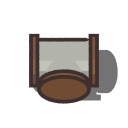
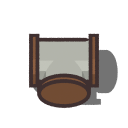
Tuyaux et chaudière : raccords nord-sud sans écart, fenêtres verticales
- Le sol est raccourci à l'écran par cos(30°) : une case nord-sud ne faisait que 55 px au lieu
  des 64 qui séparent deux tuyaux, d'où trois bandes de brides entre deux tuyaux verticaux
  et la croix décousue. Les positions au sol nord-sud des tuyaux (formes, souterrains,
  couvercles) sont allongées de pipe.KY = 1/cos(30°) : une seule paire de brides par raccord.
- Chaudière : embouts placés avec la même correction (l'écart atteignait ~15 px aux raccords
  nord-sud) et prolongés jusque dans le réservoir.
- Fenêtre verticale : verre droit à la place du trou de l'original (le jeu ne dessine le
  fluide que dans cette bande, mesuré en jeu).

Changed region(s): [[0.2812, 0.5312, 0.8125, 0.8438]]

diff --git a/cartoon/blender/pipe.py b/cartoon/blender/pipe.py
@@ -43,6 +43,16 @@ DIMS = dict(
     end=0.6,           # bouts : avancée du bouchon au-delà du centre (fraction de demi-case)
 )
 ARMS = {"n": (0, 1), "e": (1, 0), "s": (0, -1), "w": (-1, 0)}       # vers le milieu de chaque bord (y : nord)
+# Le sol est raccourci à l'écran par cos(30°) (style.GROUND_STRETCH = False) : une case nord-sud n'y ferait que 55 px
+# au lieu des 64 qui séparent deux tuyaux en jeu, d'où un écart entre les brides de deux tuyaux verticaux. Les
+# positions au sol nord-sud sont donc allongées de KY : les bords de la case tombent à 32 px du centre. Le tube garde
+# sa section ronde.
+KY = 1 / math.cos(math.radians(S.PITCH_BUILDING_DEG))
+
+
+def half(a):
+    """Du centre au milieu du bord `a` de la case (repère de Blender, nord-sud allongé de KY)."""
+    return np.array((ARMS[a][0] * 0.5, ARMS[a][1] * 0.5 * KY, 0.0))
 
 # formes du jeu -> bras (fichier pipe-<forme>.png)
 SHAPES = {
@@ -113,7 +123,7 @@ def shape(arms, d, m):
     r, yc = d["r"], d["yc"]
     z = r
     c = np.array((0.0, yc, z))
-    vec = {a: np.array((*ARMS[a], 0.0)) * 0.5 for a in arms}
+    vec = {a: half(a) for a in arms}
     done = set()
     # droits : bras opposés
     for a, b in (("e", "w"), ("n", "s")):
@@ -171,6 +181,12 @@ def glass(sprite, rel):
     hole = cv2.morphologyEx(hole, cv2.MORPH_CLOSE, np.ones((5, 5), np.uint8))
     n, lab, st, _ = cv2.connectedComponentsWithStats(hole)
     keep = lab == (1 + int(np.argmax(st[1:, 4])))                                   # la plus grande ouverture
+    if "vertical" in rel:
+        # l'original perce le flanc gauche de son tube, où le jeu dessine le fluide (bande x 46-64, mesurée en jeu :
+        # le fond de fenêtre plus large ne se remplit pas) : ouverture droite, à la place de celle de l'original
+        ys, xs = np.nonzero(keep.any(1))[0], np.nonzero(keep.any(0))[0]
+        keep = np.zeros_like(keep)
+        keep[ys.min() + 2:ys.max() - 1, xs.min() + 2:xs.max() + 1] = True          # cadre dans le tube
     out = sprite.copy()
     k = np.ones((3, 3), np.uint8)
     frame = cv2.dilate(keep.astype(np.uint8), k, iterations=3).astype(bool) & ~keep
@@ -225,7 +241,7 @@ def build_underground(which, d=None):
     m = mats()
     r, yc = d["r"], d["yc"]
     a, reach = UNDERGROUND[which]
-    edge = np.array((ARMS[a][0] * 0.5, yc + ARMS[a][1] * 0.5, r))
+    edge = np.array((0.0, yc, r)) + half(a)
     inward = -np.array((*ARMS[a], 0.0))
     knee = edge + inward * max(0.0, reach - r)
     pts = [tuple(edge)]
@@ -259,7 +275,7 @@ def build_cover(direction, d=None):
     reset()
     m = mats()
     a = COVERS[direction]
-    edge = (ARMS[a][0] * 0.5, d["yc"] + ARMS[a][1] * 0.5, d["r"])
+    edge = tuple(np.array((0.0, d["yc"], d["r"])) + half(a))
     cap(edge, (-ARMS[a][0], -ARMS[a][1]), d, m)
 
 

diff --git a/cartoon/blender/boiler.py b/cartoon/blender/boiler.py
@@ -235,23 +235,27 @@ def build(direction="N", d=None):
 
 # raccords du prototype pour le nord (cases, y vers le sud comme dans le jeu) : position, direction vers l'extérieur
 CONNECTIONS = [((-1, 0.5), (-1, 0)), ((1, 0.5), (1, 0)), ((0, -0.5), (0, -1))]   # eau, eau, vapeur
-STUB = 0.75                                  # longueur de l'embout, du bord de la case vers l'intérieur
+STUB = 0.75                                  # longueur minimale de l'embout, du bord de la case vers l'intérieur
+STUB_IN = 0.85                               # l'embout s'enfonce au moins jusqu'à cette distance du centre (réservoir)
 
 
 def connectors(direction, d=None):
     """Embouts des raccords : le tube et la bride du tuyau (pipe.py), au bord de la case, posés dans le repère du
-    monde après la rotation : à l'écran, ils tombent exactement sur ceux d'un tuyau voisin. Le tuyau est dessiné
-    `pipe.DIMS["yc"]` plus au sud que sa case, la chaudière `down` plus bas à l'écran : on décale l'embout d'autant."""
+    monde après la rotation : à l'écran, ils tombent exactement sur ceux d'un tuyau voisin. Le sol est raccourci à
+    l'écran par cos(30°) (1 case nord-sud = pipe.KY dans le monde), le tuyau est dessiné `pipe.DIMS["yc"]` plus au
+    sud que sa case et la chaudière `down` cases plus bas à l'écran : un bord à `gy` cases du centre (y vers le sud)
+    est donc en y = -gy KY + yc + down KY dans le monde."""
     d = d or DIMS
     pd, m = PIPE.DIMS, PIPE.mats()
     k = {"N": 0, "E": 1, "S": 2, "W": 3}[direction]
-    dy = pd["yc"] + d["down"]                # le sol est étiré en y par render_scene : 1 case au sol = 1 case à l'écran
     for (px, py), (vx, vy) in CONNECTIONS:
         for _ in range(k):                   # quart de tour horaire dans le repère du jeu
             px, py, vx, vy = -py, px, -vy, vx
+        gx, gy = px + vx * 0.5, py + vy * 0.5                              # bord de la case (jeu, y vers le sud)
+        edge = np.array((gx, (-gy + d["down"]) * PIPE.KY + pd["yc"], pd["r"]))
         out = np.array((vx, -vy, 0.0))       # repère de Blender : y vers le nord
-        edge = np.array((px, -py + dy, pd["r"])) + out * 0.5
-        PIPE.tube_path([tuple(edge), tuple(edge - out * STUB)], pd["r"], m["tube"])
+        stub = max(STUB, abs(float(edge[:2] @ out[:2])) - STUB_IN)         # jusque dans le réservoir
+        PIPE.tube_path([tuple(edge), tuple(edge - out * stub)], pd["r"], m["tube"])
         PIPE.flange(tuple(edge), (-vx, vy), pd, m)
 
 
